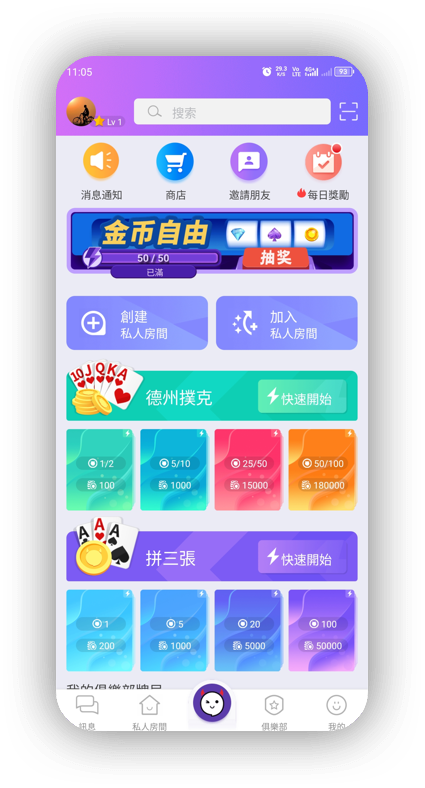
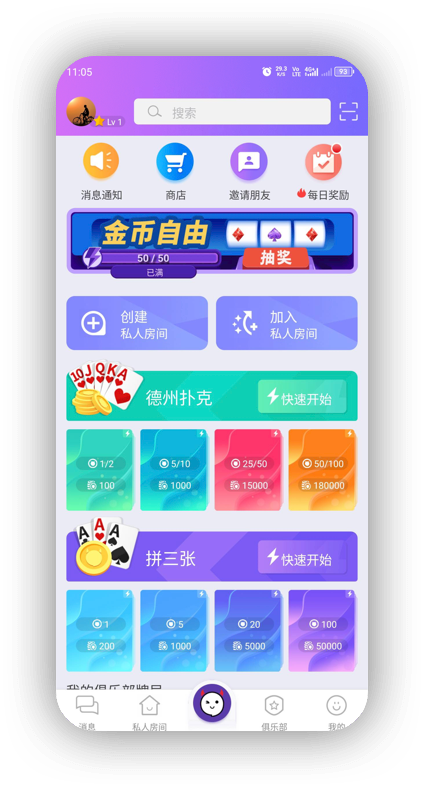
Changed Screenshot to Traditional Chinese. Fixed local download Chinese text. Set default language to Chinese. Used cookies to save choice of language. (#246)

diff --git a/react_laiwan_com/src/page/home/controller/HomeScreen.js b/react_laiwan_com/src/page/home/controller/HomeScreen.js
@@ -1,6 +1,7 @@
 import React, { useEffect, useState } from 'react';
 import { Link } from 'react-router-dom';
 import { useIntl } from 'react-intl';
+import Cookies from 'js-cookie';
 import styles from '../style/HomeScreen.module.css';
 import phoneScreenshot from '../image/img-phone.png';
 import h5Version1 from '../image/btn-h-5-blue-empty.png';
@@ -53,6 +54,23 @@ const HomeScreen = () => {
 
     changeScreenshotLocale();
 
+    const setLocale = (locale) => {
+        Cookies.set('language', locale, { expires: 365, SameSite: 'strict' });
+        switchLocale(locale);
+    }
+
+    const handleLanguageChange = (event) => {
+        setLocale(event.target.value);
+    };
+
+    const getLocaleCookie = () => {
+        const savedLanguage = Cookies.get('language');
+        if (savedLanguage) {
+            return savedLanguage;
+        }
+        return 'zh';
+    }
+
     useEffect(() => {
         fetch(androidDownloadUrl, { cache: 'no-cache' })
             .then((response) => response.json())
@@ -66,6 +84,14 @@ const HomeScreen = () => {
                 console.log(`error .meesage :: ${error.message}`);
             });
 
+        const savedLanguage = Cookies.get('language');
+        if (savedLanguage) {
+            setLocale(savedLanguage);
+        }
+        else {
+            setLocale('zh');
+        }
+
         document.title = formatMessage({ id: 'laiwan' });
     }, []);
 
@@ -74,17 +100,13 @@ const HomeScreen = () => {
         changeScreenshotLocale();
     }, [currentLocale]);
 
-    const handleLanguageChange = (event) => {
-        switchLocale(event.target.value);
-    };
-
     return (
         <div className={styles.background}>
             <div className={styles.container}>
                 <NavBar />
                 <div className={styles.navList}>
                     <div className={styles.language} >
-                        <LanguageSelect handleChange={handleLanguageChange} currentLanguage={currentLocale}/>
+                        <LanguageSelect handleChange={handleLanguageChange} currentLanguage={getLocaleCookie()}/>
                     </div>
                 </div>
                 <div className={styles.content}>

diff --git a/react_laiwan_com/src/Tutorial.js b/react_laiwan_com/src/Tutorial.js
@@ -1,5 +1,6 @@
 import React, { Component } from 'react';
 import { injectIntl, FormattedMessage, IntlProvider } from 'react-intl';
+import Cookies from 'js-cookie';
 import './view/style/tutorial.css';
 import TemporaryDrawer from './TemporaryDrawer';
 import logo from './source/logo.png';
@@ -17,7 +18,6 @@ import {
     h5_version_url_1 as h5VersionUrl1,
     h5_version_url_2 as h5VersionUrl2,
 } from './config.json';
-import LanguageSelect from './common/view/LanguageSelect';
 import { LocalizationContext } from './localization/controller/localizationContext';
 
 import en from './localization/locales/en.json';
@@ -69,7 +69,7 @@ class Tutorial extends Component {
                         />
                     </p>
                 </a>
-                <a href="/glossary">
+                <a href="/#/glossary">
                     <p className="tutorial_nav_subtitle">
                         <FormattedMessage
                             id="navbar_terminology_list"
@@ -85,13 +85,11 @@ class Tutorial extends Component {
         const { show } = this.state;
         const { switchLocale, locale, getCurrentLocale } = this.context;
 
+        switchLocale(Cookies.get('language'));
+
         if (!show) {
             return <div />;
         }
-
-        const handleLanguageChange = (event) => {
-            switchLocale(event.target.value);
-        };
 
         return (
             <LocalizationContext.Provider value={{ locale, switchLocale, getCurrentLocale }}>
@@ -103,11 +101,6 @@ class Tutorial extends Component {
                             this._renderPcNavigator()
                         )}
                         <div className="tutorial_content">
-                            <div>
-                                <div>
-                                    <LanguageSelect handleChange={handleLanguageChange} />
-                                </div>
-                            </div>
                             <div className="tutorial_container">
                                 <p className="can_not_download_text">
                                     &nbsp;&nbsp;&nbsp;&nbsp;

diff --git a/react_laiwan_com/src/page/glossary/controller/glossary.js b/react_laiwan_com/src/page/glossary/controller/glossary.js
@@ -1,6 +1,7 @@
-import React, { useState } from 'react';
+import React, { useEffect, useState } from 'react';
 import { Link } from 'react-router-dom';
 import { useIntl } from 'react-intl';
+import Cookies from 'js-cookie';
 import { useLocalization } from '../../../localization/controller/localizationContext';
 
 import FooterBar from '../view/FooterBar';
@@ -23,14 +24,33 @@ const languages = {
 
 const Glossary = () => {
     const { formatMessage } = useIntl();
-    const { getCurrentLocale } = useLocalization();
+    const { getCurrentLocale, switchLocale } = useLocalization();
     const currentLocale = getCurrentLocale();
 
     const [mobileNavigationIsOpen, setMobileNavigationIsOpen] = useState(false);
 
     const [selectedLetter, setSelectedLetter] = useState('');
     const [searchText, setSearchText] = useState('');
-    const [terms] = useState(JSON.parse(JSON.stringify(languages[currentLocale])));
+    const [terms, setTerms] = useState(JSON.parse(JSON.stringify(languages[currentLocale])));
+
+
+    const setLocale = (locale) => {
+        Cookies.set('language', locale, { expires: 365, SameSite: 'strict' });
+        switchLocale(locale);
+        setTerms(JSON.parse(JSON.stringify(languages[locale])));
+    }
+
+    useEffect(() => {
+        const savedLanguage = Cookies.get('language');
+        if (savedLanguage) {
+            setLocale(savedLanguage);
+        }
+        else {
+            setLocale('zh');
+        }
+
+        document.title = formatMessage({ id: 'laiwan' });
+    }, []);
 
     const getChars = (set) => {
         let lastChar = '';

diff --git a/react_laiwan_com/src/localization/controller/localizationContext.js b/react_laiwan_com/src/localization/controller/localizationContext.js
@@ -18,7 +18,7 @@ export const LocalizationContext = createContext();
 export const useLocalization = () => useContext(LocalizationContext);
 
 export const LocalizationProvider = ({ children }) => {
-    const [locale, setLocale] = useState('en');
+    const [locale, setLocale] = useState('zh');
 
     const switchLocale = (newLocale) => setLocale(newLocale);
 
